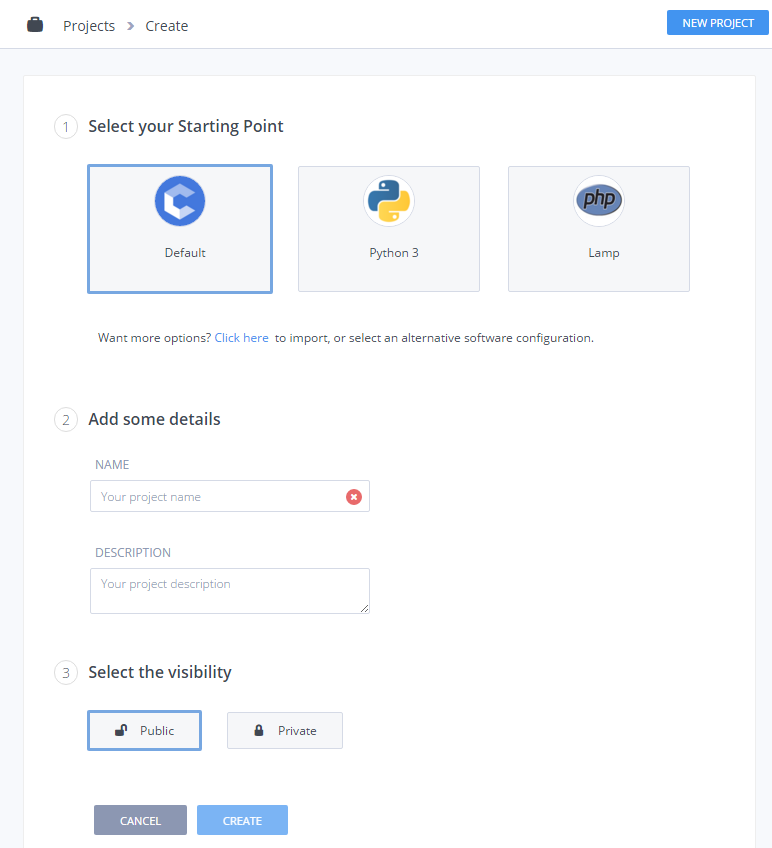
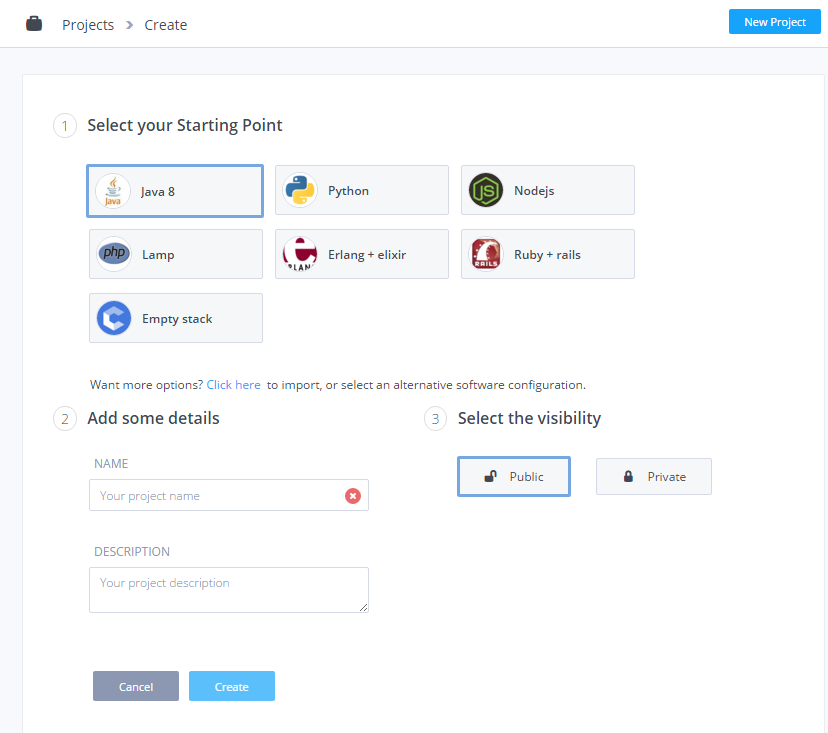
update new project screenshot

diff --git a/source/docs/student/myfirstproject.html.md b/source/docs/student/myfirstproject.html.md
@@ -16,7 +16,7 @@ A Box is a virtual computer in the Cloud. You can do whatever you like with this
 - Use a preconfigured software [stack](/docs/dashboard/stacks/) to avoid lengthy configuration of the Box.
 - Use a preconfigured [Starter Pack](/docs/dashboard/packs/). This is a Box fully configured with both pre-installed software as well as starting point code.
 - [Deploy](/docs/ide/tools/deployment/) code to external sites and servers.
-- Each Box comes with the following software installed automatically : [git](/docs/ide/editing/git/), c, java, NodeJS, Ruby and many other useful tools. You don't need to know about any of this but it is good to know for more advanced students.
+- Each Box comes with  [git](/docs/ide/editing/git/) installed automatically/ You don't need to know about any of this but it is good to know for more advanced students.
 - There are many very powerful features in Codio, so feel free to browse the [IDE](/docs/ide/) documentation.
 
 ## Creating a new Project
@@ -33,16 +33,15 @@ Start off by ...
 
 You can then choose which of the following Project creation methods you want to use
 
-Select a commonly used Stack:
+Select a commonly used Stack, for example
 
 
 - **LAMP:** LAMP Stack containing PHP, Apache and MySql with no code workspace.
 - **Python3:** Python3 Stack with no code workspace.
-- **Codio Base Stack:** an empty Ubuntu Box with no code workspace (suitable for HTML/CSS/JS projects).
+- **Empty Stack:** an empty Ubuntu Box with no code workspace (suitable for HTML/CSS/JS projects).
 
 or click on the **'Click here....'** to import or select an alternative software configuration:
 
-- **[Empty with Stack](/docs/dashboard/stacks/)** which allows you to select your software dependencies from a list of Codio Certified Stacks or from Stacks that you have created earlier yourself.
 - **[Starter Pack](/docs/dashboard/packs/)** which is the combination of a Stack and a pre-configured code workspace. This option means you can create complete Stack + Code templates that get you off to a flying start.
 - **Import** where you can import from Git, BitBucket, Mercurial, FTP, SFTP or from a Zip file.
 - If you are a student, you can also check out [Modules](/docs/dashboard/modules/), which are collections of several projects grouped and ordered into a coherent set of Projects and incorporate [Codio Guides](/docs/tuts/), giving you on-screen instructions while you code.

diff --git a/source/docs/teacher/myfirstproject.html.md b/source/docs/teacher/myfirstproject.html.md
@@ -16,7 +16,7 @@ A Box is a virtual computer in the Cloud. You can do whatever you like with this
 - Use a preconfigured software [stack](/docs/dashboard/stacks/) to avoid lengthy configuration of the Box.
 - Use a preconfigured [Starter Pack](/docs/dashboard/packs/). This is a Box fully configured with both pre-installed software as well as starting point code.
 - [Deploy](/docs/ide/tools/deployment/) code to external sites and servers.
-- Each Box comes with the following software installed automatically : [git](/docs/ide/editing/git/), c, java, NodeJS, Ruby and many other useful tools. You don't need to know about any of this but it is good to know for more advanced students.
+- Each Box comes with  [git](/docs/ide/editing/git/) installed automatically. You don't need to know about any of this but it is good to know for more advanced users.
 - There are many very powerful features in Codio, so feel free to browse the [IDE](/docs/ide/) documentation.
 
 ## Creating a new Project
@@ -33,14 +33,13 @@ Start off by ...
 
 You can then choose which of the following Project creation methods you want to use
 
-Select a commonly used Stack:
+Select a commonly used Stack, for example:
 
 - **LAMP:** LAMP Stack containing PHP, Apache and MySql with no code workspace.
 - **Python3:** Python3 Stack with no code workspace.
-- **Codio Base Stack:** an empty Ubuntu Box with no code workspace (suitable for HTML/CSS/JS projects).
+- **Empty Stack:** an empty Ubuntu Box with no code workspace (suitable for HTML/CSS/JS projects).
 
 or click on the **'Click here....'** to import or select an alternative software configuration:
 
-- **[Empty with Stack](/docs/dashboard/stacks/)** which allows you to select your software dependencies from a list of Codio Certified Stacks or from Stacks that you have created earlier yourself.
 - **[Starter Pack](/docs/dashboard/packs/)** which is the combination of a Stack and a pre-configured code workspace. This option means you can create complete Stack + Code templates that get you off to a flying start.
 - **Import** where you can import from Git, BitBucket, Mercurial, FTP, SFTP or from a Zip file.
